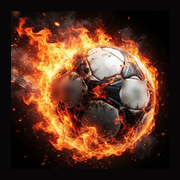
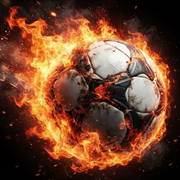
Add files via upload

diff --git a/index.html b/index.html
@@ -220,8 +220,12 @@
       <div class="menu-item soon"><span class="ico">⏱</span> Play-time reminder</div>
       <button class="btn danger" id="resetProgressBtn" style="margin-top:10px;">Reset progress</button>
 
-      <!-- ============ TESZT ESZKÖZÖK — KIADÁS ELŐTT TÖRLENDŐ ============ -->
-      <div id="testTools" style="margin-top:18px;padding-top:14px;border-top:1px dashed var(--line);">
+      <!-- ============ TESZT ESZKÖZÖK ============
+           ALAPBÓL REJTETT. A tesztelők és a játékosok soha nem látják.
+           Bekapcsolás: 7x koppintás a Settings CÍMÉRE (Android-minta),
+           vagy a "#debug" URL. Kikapcsolás: újabb 7 koppintás.
+           ======================================================= -->
+      <div id="testTools" style="display:none;margin-top:18px;padding-top:14px;border-top:1px dashed var(--line);">
         <div style="font-size:10px;letter-spacing:.14em;color:var(--text-dim);text-transform:uppercase;margin-bottom:8px;">Test tools</div>
         <div style="display:flex;gap:8px;flex-wrap:wrap;">
           <button class="btn small" id="testCoinsBtn">+1000 <img class="coin" src="assets/coin.svg" alt=""></button>

diff --git a/sw.js b/sw.js
@@ -1,10 +1,11 @@
 // Blaze Kick Service Worker - v2 (modularizált verzió)
 // FONTOS: minden deploy előtt növeld a verziószámot!
-var CACHE = 'blazekick-v64';
+var CACHE = 'blazekick-v65';
 
 var ASSETS = [
   './',
   './index.html',
+  './privacy.html',
   './css/style.css',
   './css/ui.css',
   './js/early.js',